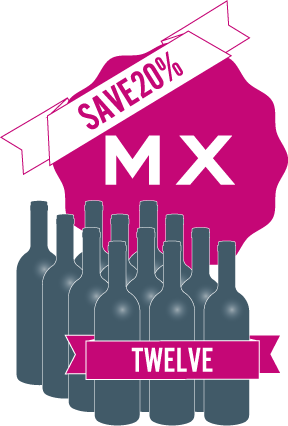
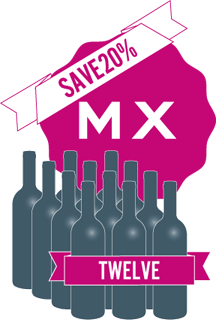
Fix: Show taster info instead of pro info, on stripe when order made by pro; Changed product images

diff --git a/main/templates/main/edit_credit_card.html b/main/templates/main/edit_credit_card.html
@@ -23,6 +23,7 @@
             <div class="control-group">
               <div class="control-label">Card Number</div>
               <div class="controls">
+                <input type="hidden" class="card-name" value="{{ receiver.first_name }} {{ receiver.last_name }}" />
                 <input type="text" size="20" autocomplete="off" class="card-number" />
               </div>
             </div>
@@ -159,6 +160,7 @@
           form$.append("<input type='hidden' name='exp_year' value='" + card.exp_year + "' />");
           form$.append("<input type='hidden' name='card_type' value='" + card.type + "' />");
           form$.append("<input type='hidden' name='address_zip' value='" + card.address_zip + "' />");
+          // form$.append("<input type='hidden' name='name' value='" + card.name + "' />")
           // and submit
           form$.get(0).submit();
         }
@@ -170,11 +172,12 @@
           $('.submit-button').attr("disabled", "disabled");
           // createToken returns immediately - the supplied callback submits the form if there are no errors
           Stripe.createToken({
+            name: $('.card-name').val(),
             number: $('.card-number').val(),
             cvc: $('.card-cvc').val(),
             exp_month: $('.card-expiry-month').val(),
             exp_year: $('.card-expiry-year').val(),
-            address_zip: $('.card-address-zip').val()
+            address_zip: $('.card-address-zip').val(),
           }, stripeResponseHandler);
           return false; // submit from callback
         });

diff --git a/main/templates/main/cart_add_wine.html b/main/templates/main/cart_add_wine.html
@@ -23,7 +23,7 @@
 {% block content %}
 
 <div class="container">
-  {% if not user.get_profile.has_personality %}
+  {% if not has_personality %}
     <div class="vertical-space">&nbsp;</div>
     <div class="row">
       <div id="sub-heading" class="offset2 span8 center">
@@ -88,13 +88,13 @@
             <table>
               <tr>
                 <td><h1 class="span1">Yes</h1></td>
-                <td><input type="radio" class="span1" name="frequency" value="1"></td>
-                <td>Send me a new shipment every month</td>
+                <td><input id="id_frequency_1" type="radio" class="span1" name="frequency" value="1"></td>
+                <td><label for="id_frequency_1">Send me a new shipment every month</label></td>
               </tr>
               <tr>
                 <td><h1 class="span1">No</h1></td>
-                <td><input type="radio" class="span1" checked="checked" name="frequency" value="0"></td>
-                <td>Send me a one-time order</td>
+                <td><input id="id_frequency_0" type="radio" class="span1" checked="checked" name="frequency" value="0"></td>
+                <td><label for="id_frequency_0">Send me a one-time order</label></td>
               </tr>
             </table>
           </div>

diff --git a/main/templates/main/place_order.html b/main/templates/main/place_order.html
@@ -89,18 +89,21 @@
       <p><a href="{% url edit_credit_card %}">Edit</a></p>
     </div>
     <div class="span3">
-      {% if taste_kit_order %}
-        <p>&nbsp;</p>
-      {% else %}
-        {% if not items %}
+      <p>&nbsp;</p>
+      {% comment %}
+        {% if taste_kit_order %}
           <p>&nbsp;</p>
         {% else %}
-          <p><h3>Wine Preference</h3></p>
-          <!-- <p></p> -->
-          <p>Red/White: {{ receiver.userprofile.order_customization_pref }}</p>
-          <p>Bubbles: {{ customization.get_sparkling_display }}</p>
+          {% if not items %}
+            <p>&nbsp;</p>
+          {% else %}
+            <p><h3>Wine Preference</h3></p>
+            <!-- <p></p> -->
+            <p>Red/White: {{ receiver.userprofile.order_customization_pref }}</p>
+            <p>Bubbles: {{ customization.get_sparkling_display }}</p>
+          {% endif %}
         {% endif %}
-      {% endif %}
+      {% endcomment %}
     </div>
     <div class="span3">
       <p>&nbsp;</p>

diff --git a/main/views.py b/main/views.py
@@ -282,6 +282,7 @@ def how_it_works(request):
 
   return render_to_response("main/how_it_works.html", data, context_instance=RequestContext(request))
 
+
 @login_required
 def start_order(request, receiver_id=None, party_id=None):
   """
@@ -297,6 +298,9 @@ def start_order(request, receiver_id=None, party_id=None):
   party = None
   receiver = None
   u = request.user
+
+  if 'receiver_id' in request.session:
+    del request.session['receiver_id']
 
   # both receiver and party_id must be present or none at all
   if receiver_id or party_id:
@@ -472,9 +476,9 @@ def cart_add_wine(request):
     receiver = User.objects.get(id=request.session['receiver_id'])
   else:
     receiver = u
-
+  # print 'receiver.email', receiver.email
   personality = receiver.get_profile().wine_personality
-
+  # print personality
   form = AddWineToCartForm(request.POST or None)
   # print 'form.errors', form.errors
   if form.is_valid():
@@ -557,6 +561,7 @@ def cart_add_wine(request):
   product = Product.objects.get(cart_tag="6")
   data["product"] = product
   data["personality"] = personality
+  data["has_personality"] = receiver.get_profile().has_personality()
   form.initial = {'total_price': product.unit_price, 'product': product}
   data["form"] = form
   # data["level"] = level
@@ -755,7 +760,7 @@ def place_order(request):
       cart.status = Cart.CART_STATUS_CHOICES[5][0]
       cart.save()
 
-      if request.session['stripe_payment']:
+      if request.session.get('stripe_payment'):
         # charge card to stripe
 
         if receiver_state == "MI":
@@ -1951,6 +1956,7 @@ def edit_credit_card(request):
   except:
     # the receiver has not been specified
     raise PermissionDenied
+  data['receiver'] = receiver
 
   # stripe only supported in MI, CA
   if receiver_state in Cart.STRIPE_STATES:
@@ -1977,7 +1983,7 @@ def edit_credit_card(request):
       except:
         # no record of this customer-card mapping so create
         try:
-          customer = stripe.Customer.create(card=stripe_token, email=u.email)
+          customer = stripe.Customer.create(card=stripe_token, email=receiver.email)
           stripe_user_id = customer.id
 
           # create on vinely
@@ -2028,7 +2034,7 @@ def edit_credit_card(request):
       return HttpResponseRedirect(reverse("place_order"))
 
     # display form: prepopulate with previous credit card used
-    current_user_profile = u.get_profile()
+    current_user_profile = receiver.get_profile()
     if 'ordering' in request.session and request.session['ordering'] and current_user_profile.credit_card:
       card_info = current_user_profile.credit_card
       form.initial = {'card_number': card_info.decrypt_card_num(), 'exp_month': card_info.exp_month,
